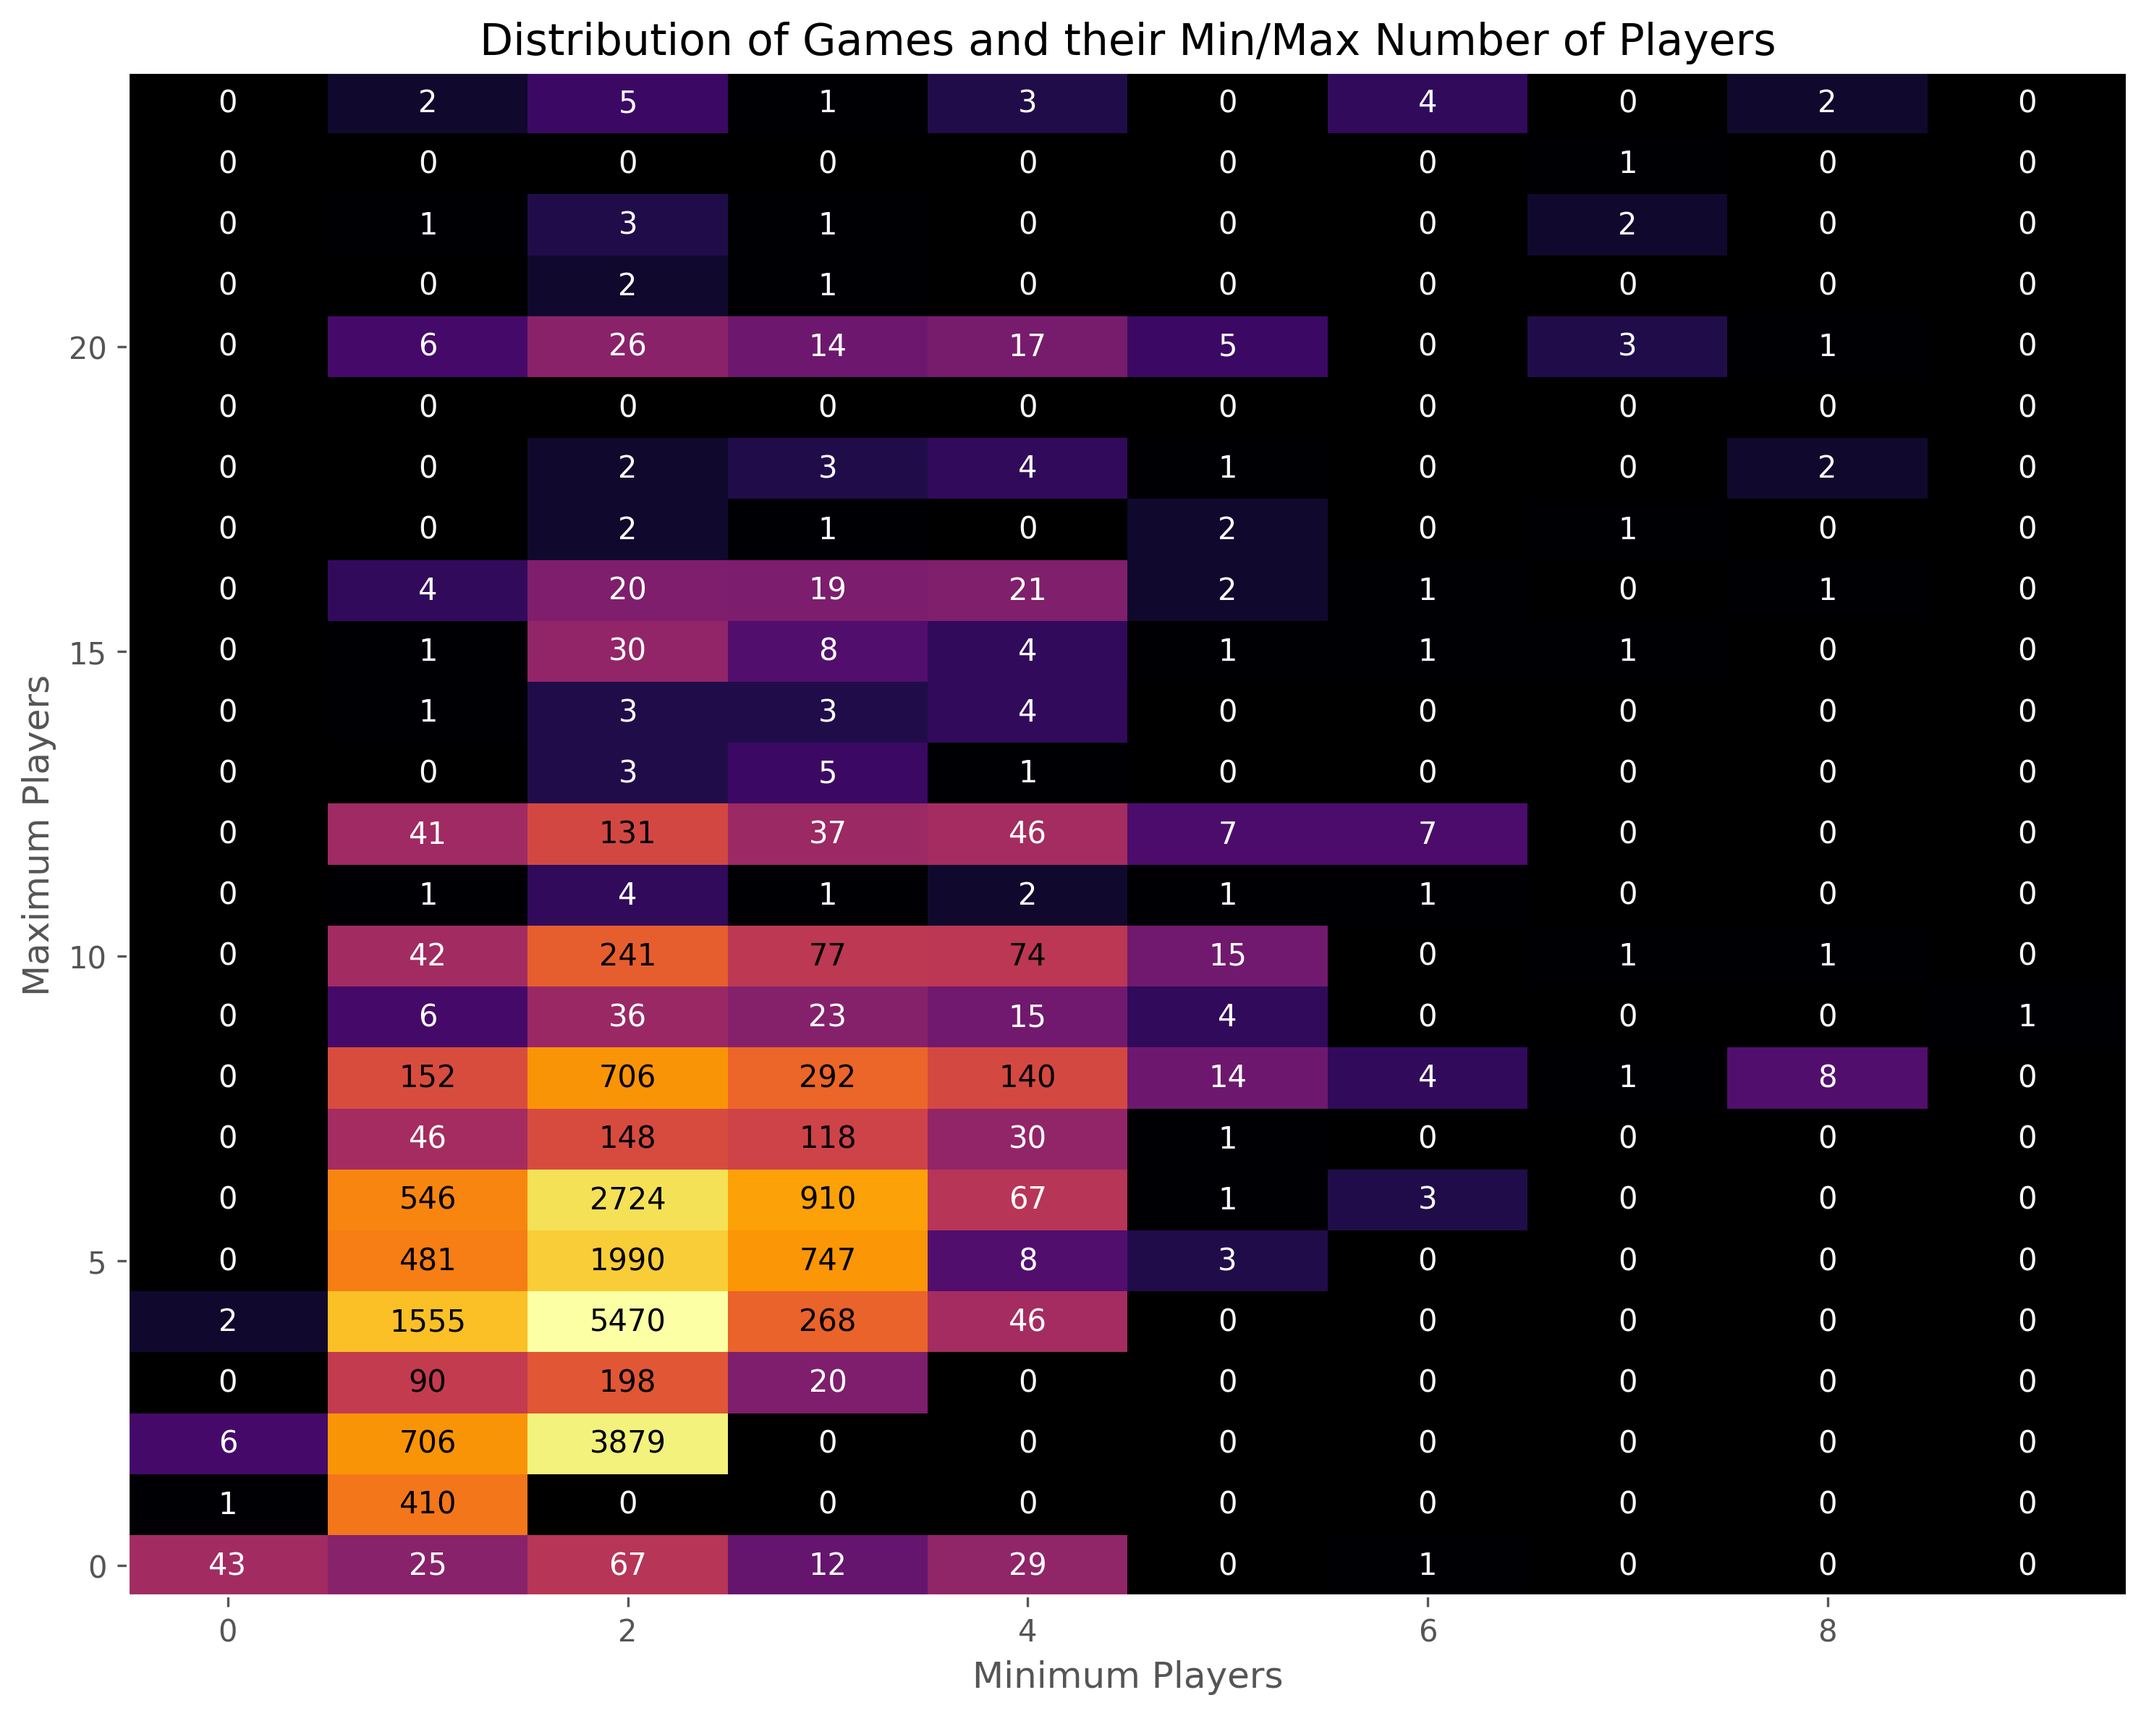
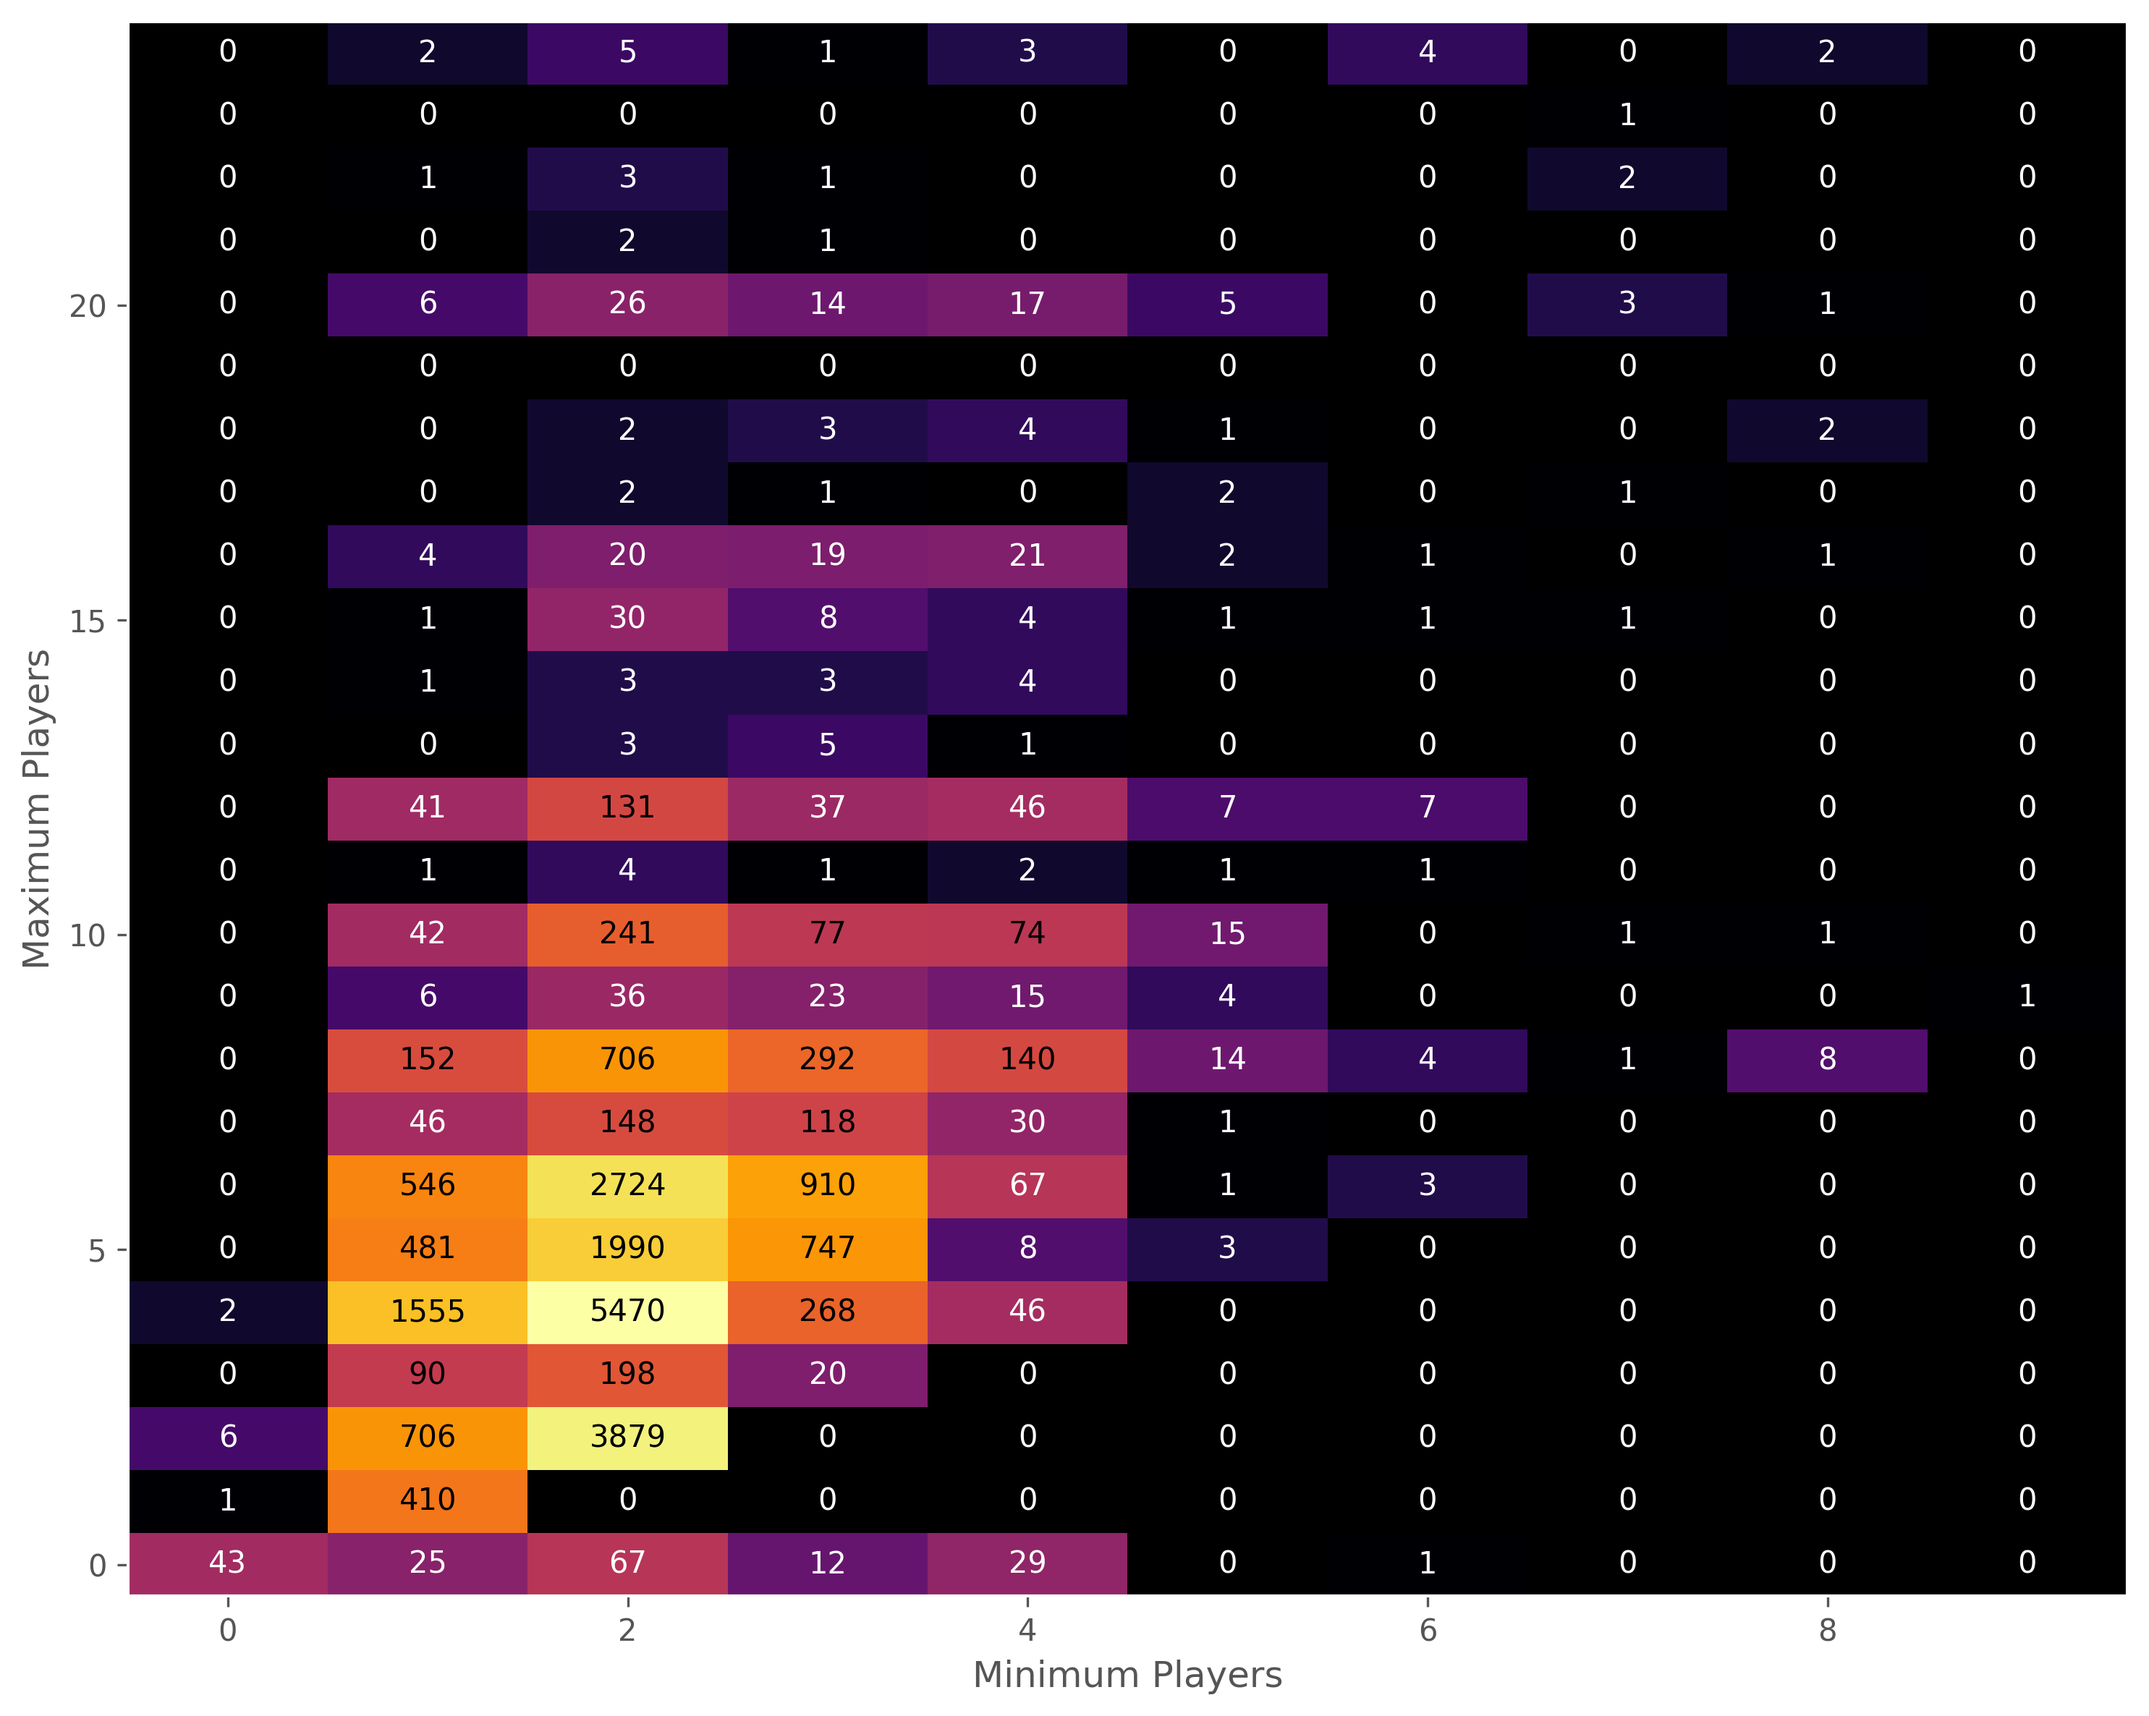
Update: players section

diff --git a/content/blog/boardgames_part_two/index.md b/content/blog/boardgames_part_two/index.md
@@ -319,14 +319,13 @@ For about 19% of games these values are the same.
 The largest minimum number of players is 10,
 while the largest maximum number of players goes up to 999.
 
-If we ignore the games with a player max larger than 24,
-we can construct a heatmap between minimum and maximum player numbers.
+Below is a heatmap for min/max players for games with max players ≤ 24.
 Most games are 2 players or 2-4 players.
 Note that in cases where both the minimum and maximum are 0,
 or where the maximum is 0 but the minimum is not,
 most likely indicate the use of 0's as a missing value placeholder.
 
-[![Heatmap of boardgame player requirements for player max less than 24](images/players_heatmap.png)](images/players_heatmap.png)
+![Heatmap of boardgame player requirements for player max less than 24](images/players_heatmap.png "Distribution of player number requirements for games with max players ≤ 24")
 
 ### Playtime
 Board games have value for minimum playtime, playtime, and maximum playtime,
